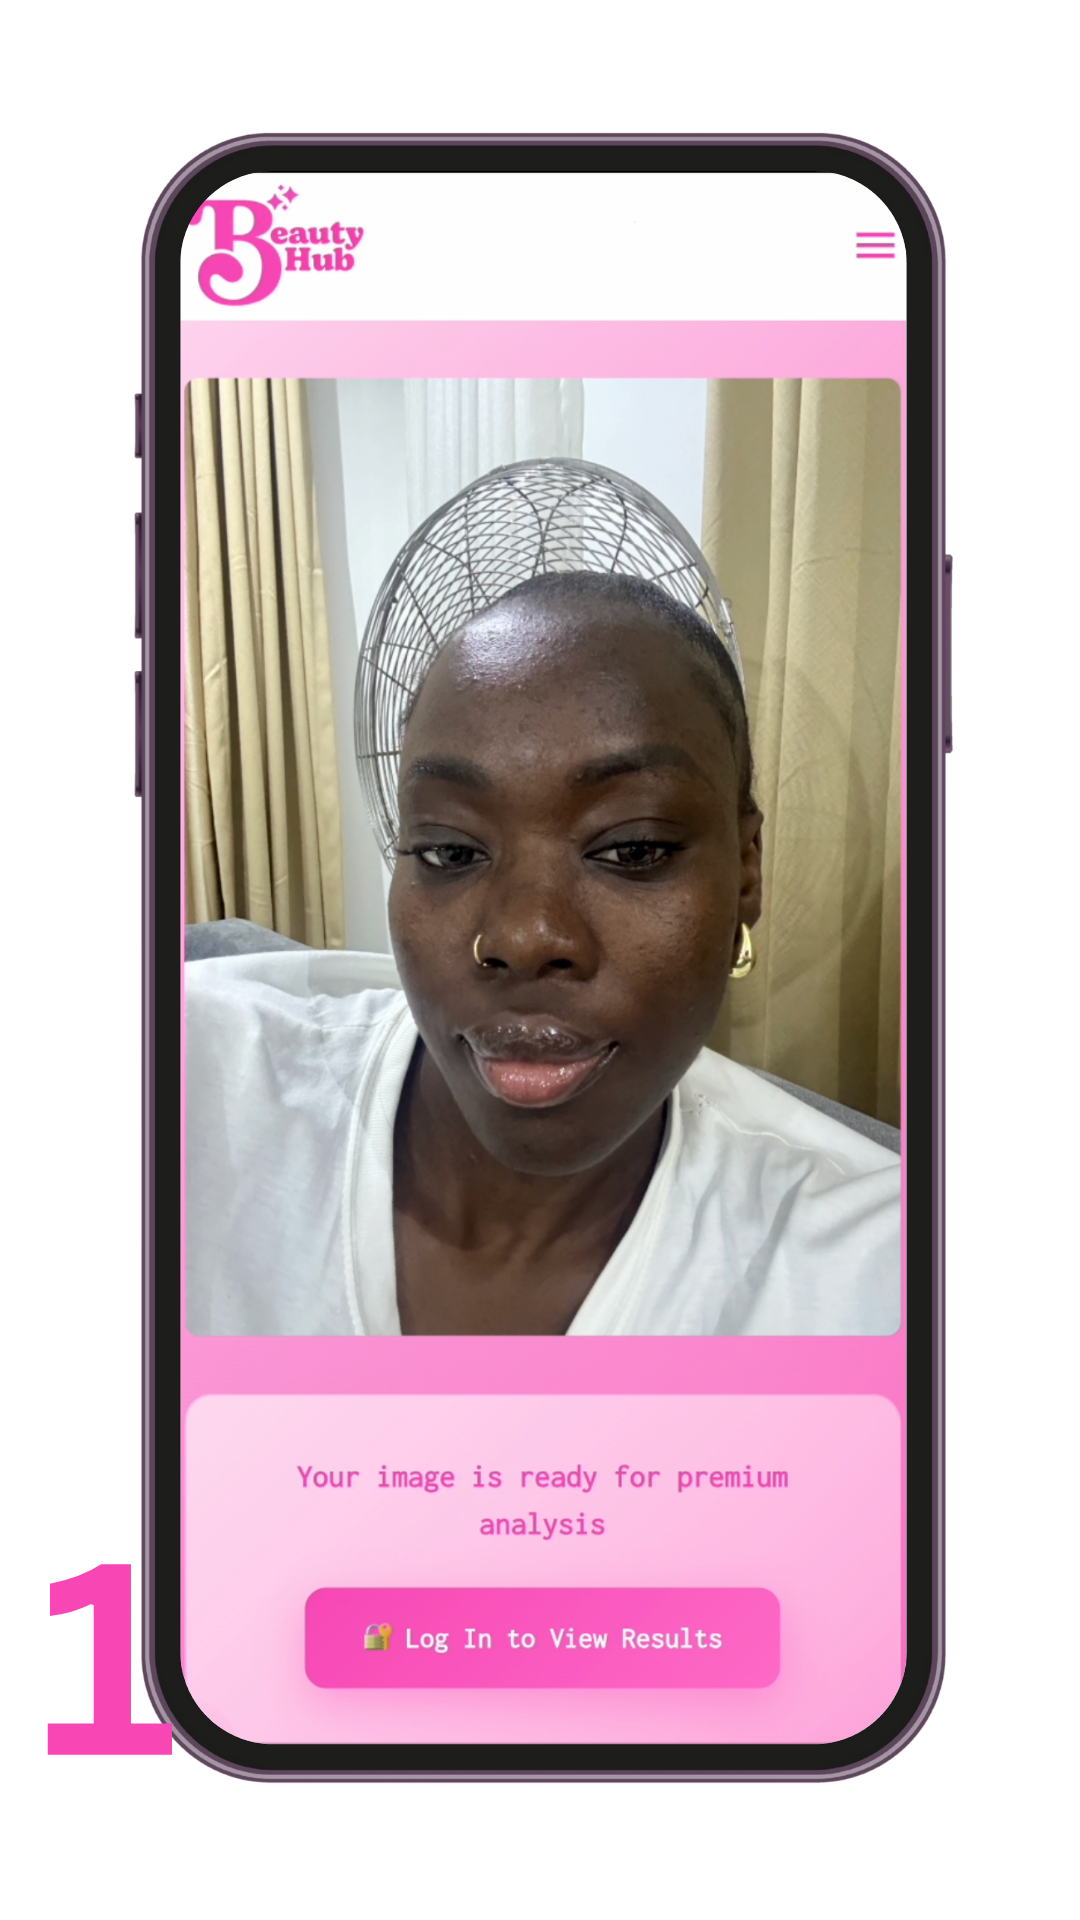
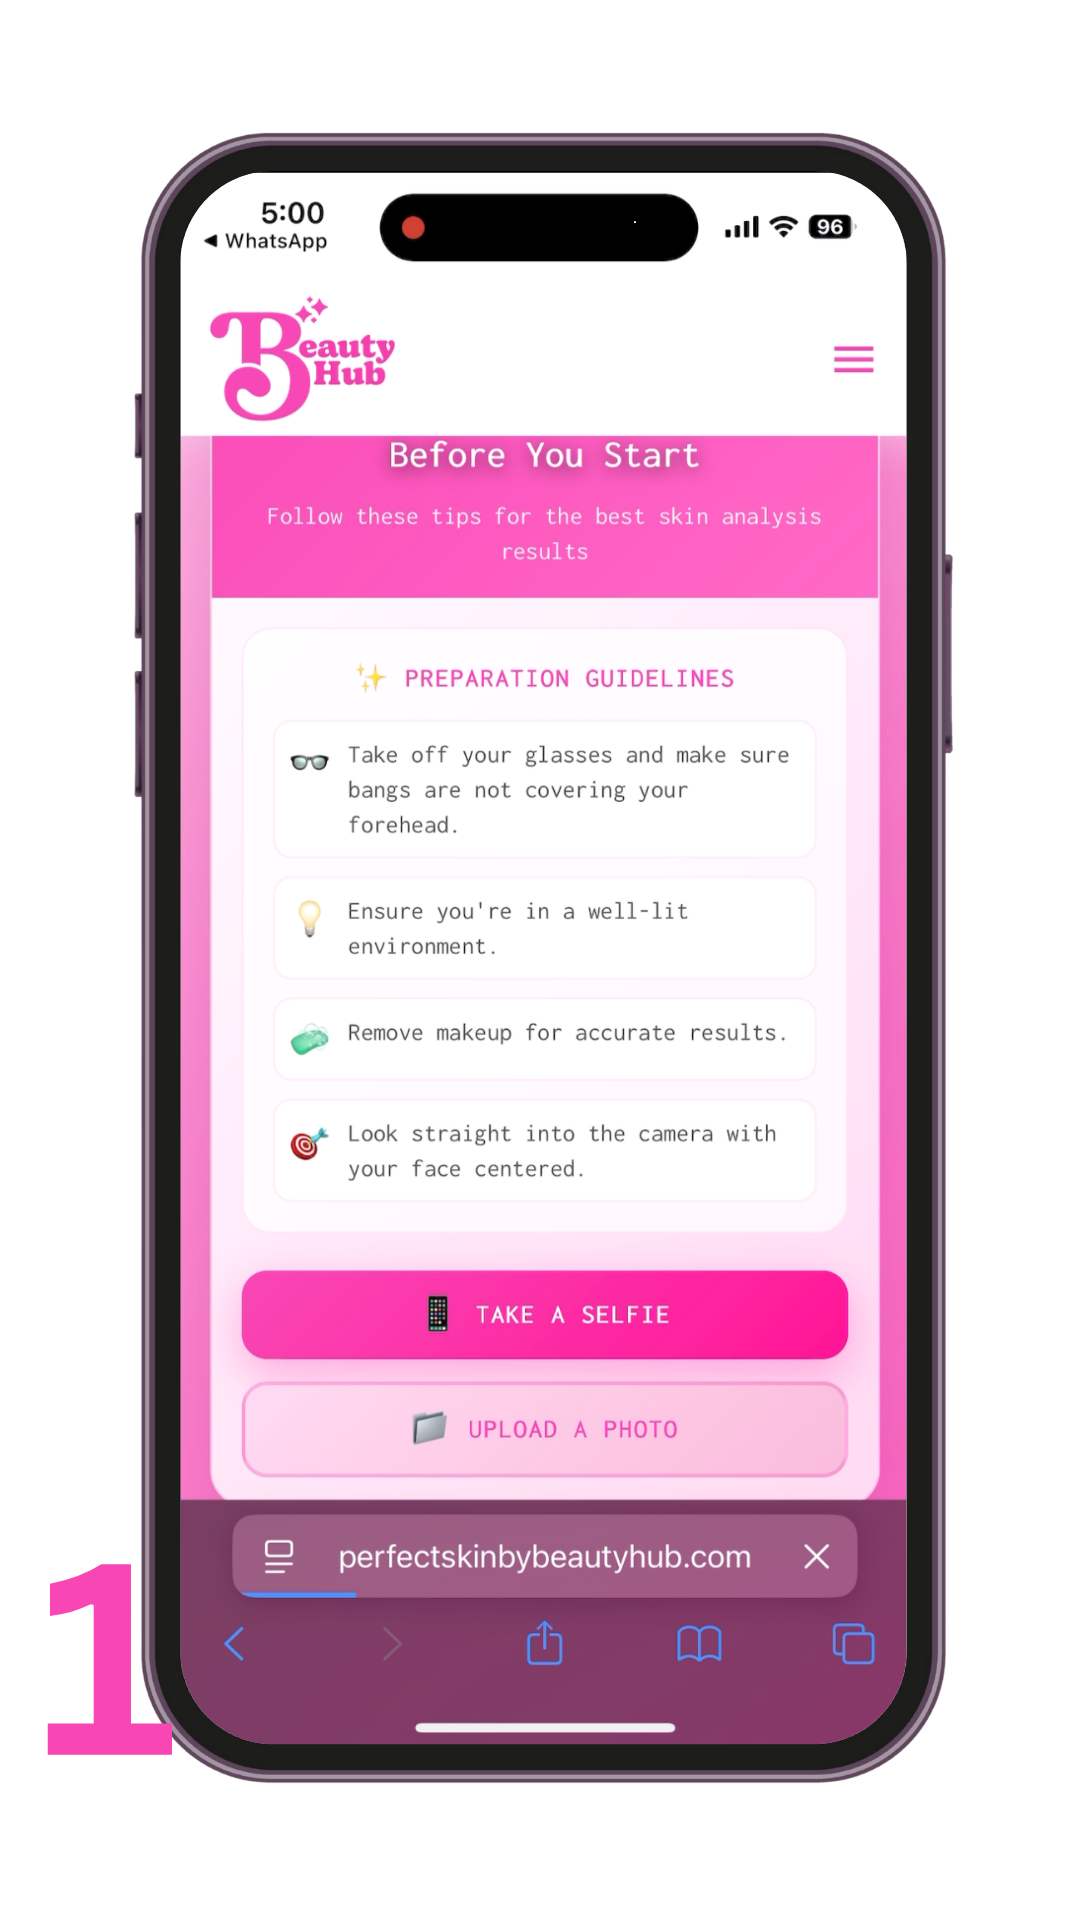
step changes

diff --git a/src/components/PremiumSkincareSection.tsx b/src/components/PremiumSkincareSection.tsx
@@ -80,7 +80,7 @@ const PremiumSkincareSection = () => {
               <div className="w-full h-full bg-white rounded-[2.5rem] overflow-hidden relative">
                 {/* Video Content */}
                 <video
-                  src="https://res.cloudinary.com/debcfaccq/video/upload/v1751058191/Untitled_design_zgl0lx.mp4"
+                  src="https://res.cloudinary.com/debcfaccq/video/upload/v1752686142/Untitled_design_ipeoag.mp4"
                   autoPlay
                   muted
                   loop
